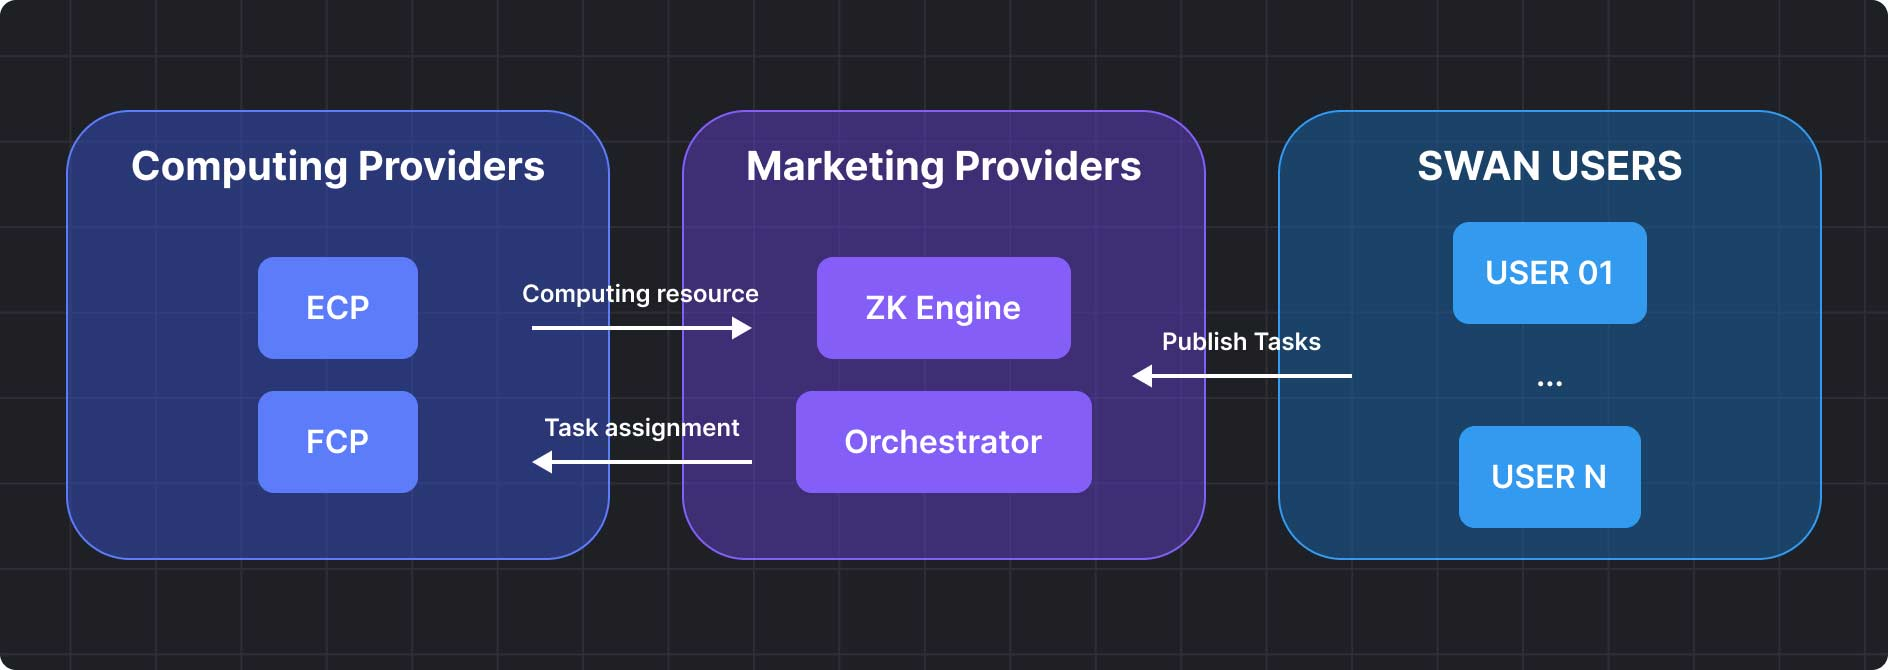
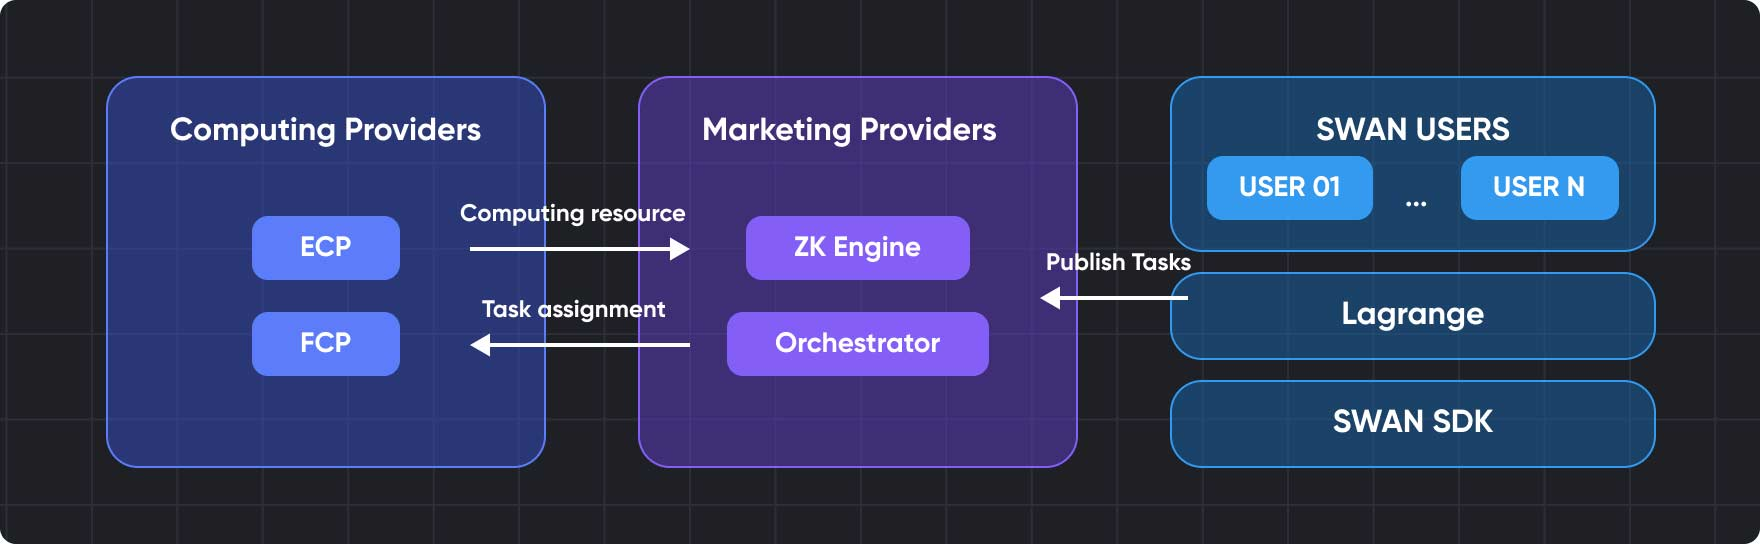
Modify page content

Changed region(s): [[0.0312, 0.125, 0.9688, 0.875]]

diff --git a/src/views/network/about/config.ts b/src/views/network/about/config.ts
@@ -11,7 +11,7 @@ export const anchor = ref([
     title: 'General Information',
     image: null,
     content: [
-      'Full set AI blockchain.'
+      'A Full Toolset AI Blockchain.'
     ]
   },
   {
@@ -35,7 +35,7 @@ export const anchor = ref([
     title: 'Architecture',
     image: image2,
     content: [
-      'SWAN Users can easily publish their tasks on SWAN website and the Marketing Providers will automatically assign the tasks to Computing providers.<br /><br />',
+      'Marketing Providers will automatically assign the tasks to Computing providers. Tasks usually come from Lagrange, Swan Chain users and Swan Chain SDK.<br /><br />',
       'ECP focuses on real-time computing requirements at the edge, and meets the urgent needs of the network for low-latency real-time processing by providing services such as zero-knowledge proof computing, image recognition, and content distribution.<br /><br />',
       'FCP gives full play to the advantages of cloud computing and provides support for AI model training and deployment by sinking computing power to the edge of the network. With infrastructure such as Kubernetes, FCP is able to efficiently handle scalable, massively distributed computing tasks.<br /><br />',
       'MP provides smart and automatic engines which would be able to allocate the tasks to the most appropriate Computing Providers.',
@@ -49,7 +49,7 @@ export const anchorProvider = ref([
     targetId: 'SWAN-Providers',
     actived: true,
     mainTitle: true,
-    mainTitleText: 'SWAN Providers',
+    mainTitleText: 'Swan Chain Providers',
     externalLink: {
       name: 'View Provider explorer',
       link: 'https://orchestrator.swanchain.io/provider-status'
@@ -58,7 +58,7 @@ export const anchorProvider = ref([
     image: null,
     content: [
       'A computing provider is an individual or organization that participates in the decentralized computing network by offering computational resources such as processing power (CPU and GPU), memory, storage, and bandwidth.<br /><br />',
-      'As a resource provider, you can run a ECP(Edge Computing Provider) and FCP(Fog Computing Provider) to contribute yourcomputing resource.'
+      'As a resource provider, you can run a ECP(Edge Computing Provider) and FCP(Fog Computing Provider) to contribute your computing resource.'
     ]
   },
   {

diff --git a/src/base-ui/xy-swiper-app.vue b/src/base-ui/xy-swiper-app.vue
@@ -3,7 +3,7 @@
   <swiper class="swiper-app" :modules="modules" :navigation="{
       nextEl: '.swiper-button-next',
       prevEl: '.swiper-button-prev'
-    }" slides-per-view="auto" :looped-slides="list.length + 2" :autoplay="autoplay" loop>
+    }" :pagination="{ clickable: true }" slides-per-view="auto" :autoplay="autoplay">
     <template v-for="(item, index) in list" :key="index">
       <swiper-slide class="swiper-slide pointer" :style="{ width: itemWidth }" @click="openPage(item.website)">
         <div class="swiper-slide-item back-linear text-center">
@@ -29,7 +29,7 @@
   </swiper>
 </template>
 <script setup lang="ts">
-import SwiperCore, { Autoplay, Navigation } from 'swiper'
+import SwiperCore, { Autoplay, Navigation, Pagination } from 'swiper'
 import { Swiper, SwiperSlide } from 'swiper/vue'
 import 'swiper/swiper-bundle.css'
 import type { IOption } from 'types/common'
@@ -47,9 +47,9 @@ defineProps<{
   itemLeft?: string
 }>()
 const emits = defineEmits(['click-item'])
-const modules = ref([Autoplay])
+const modules = ref([Autoplay, Pagination])
 const autoplay = reactive({
-  delay: 5500, 
+  delay: 2000, 
   stopOnLastSlide: false,
   disableOnInteraction: false,
   pauseOnMouseEnter: true,
@@ -59,11 +59,12 @@ const autoplay = reactive({
 function handleClickItem(item: IOption) {
   emits('click-item', item)
 }
-SwiperCore.use([Navigation]);
+SwiperCore.use([Navigation, Pagination]);
 </script>
 <style lang="scss">
 .swiper-app {
   width: 100%;
+  padding-bottom: calc(0.64rem + 8px);
   // margin-left: -1.565rem;
   .swiper-wrapper {
     display: flex;
@@ -134,6 +135,21 @@ SwiperCore.use([Navigation]);
     &.swiper-button-prev{
       left: 0;
       background: linear-gradient(-90deg, transparent, var(--color-dark));
+    }
+  }
+  .swiper-pagination{
+    display: flex;
+    justify-content: center;
+    bottom: 0.32rem;
+    .swiper-pagination-bullet{
+      width: 8px;
+      height: 8px;
+      margin: 0 0.08rem;
+      background-color: var(--color-light-opacity-25);
+      opacity: 1;
+      &.swiper-pagination-bullet-active {
+        background-color: var(--color-light);
+      }
     }
   }
 }

diff --git a/src/views/network/swanToken/config.ts b/src/views/network/swanToken/config.ts
@@ -22,8 +22,8 @@ export const anchor = ref([
     title: 'Introduction',
     image: image1,
     content: [
-      "SwanChain introduces a comprehensive tokenomics structure designed to support its ecosystem's growth, incentivize participation, and ensure operational sustainability.",
-      'SWAN token is the native encryption token of the Swan Chain ecosystem and plays a key role in this distributed computing network. Through innovative economic model design, SWAN empowers participants, stimulates network vitality, and ensures long-term sustainable development.',
+      "Swan Chain introduces a comprehensive tokenomics structure designed to support its ecosystem's growth, incentivize participation, and ensure operational sustainability.",
+      'SWAN token is the native encryption token of the Swan Chain ecosystem and plays a key role in this distributed computing network. Through innovative economic model design, Swan Chain empowers participants, stimulates network vitality, and ensures long-term sustainable development.',
       'The total supply of SWAN tokens is fixed at 1 billion tokens, ensuring scarcity and long-term protection against inflation. ',
       'The token economics is designed to support the growth and sustainability of the Swan Chain, and its distribution is as follows:'
     ]

diff --git a/src/views/ecosystem/Apps/apps-header.vue b/src/views/ecosystem/Apps/apps-header.vue
@@ -2,7 +2,7 @@
    <!-- page-body lax-landing -->
   <div class="home-header page-body lax-landing flex-column flex-ai-center">
     <div class="home-header-title font-46 font-bold plr-32">{{ title }}</div>
-    <div class="font-24">Discover and explore the applications built on SWAN Chain.</div>
+    <div class="font-24">Discover and explore the applications built on Swan Chain.</div>
     <div class="flex flex-ai-center mt-16">
       <div class="home-header-btn btn font-16 flex flex-ai-center" @click="formDialog=true">
         Add Your App
@@ -12,7 +12,7 @@
       </div>
     </div>
     <div class="home-header-list mt-80">
-      <xy-swiper-app :list="crmForm.data" :item-width="windowSize === EWindowSize.XS ? '70%' : '2.53rem'"></xy-swiper-app>
+      <xy-swiper-app :list="crmForm.data" :item-width="windowSize === EWindowSize.XS ? '50%' : '20%'"></xy-swiper-app>
     </div>
   </div>
 
@@ -26,7 +26,7 @@ import { windowSize } from '@/hooks/layout'
 import { EWindowSize } from '@/constant/common'
 import { getCRMFormList } from '@/api/apps';
 
-const title = ref('SWAN Chain Apps')
+const title = ref('Swan Chain Apps')
 const recommendList = ref([
   {
     title: 'Lagrange Dao',

diff --git a/src/views/aboutUs/pages/aboutUs-header.vue b/src/views/aboutUs/pages/aboutUs-header.vue
@@ -3,10 +3,10 @@
     <div class="content lang-max flex-row">
       <div class="text font-16">
         <div class="font-46 font-bold text-center flex flex-ai-center flex-jc-center mb-110 plr-32">
-          Build The Web3 Future with Swan
+          Build The Web3 Future with Swan Chain
         </div>
         <div class="flex flex-wrap flex-jc-center banner-text">
-          <div class="font-14 mb-16">Swan has a global team of dedicated, world-class talents who are committed to building the best Web3 infrastructure.</div>
+          <div class="font-14 mb-16">Swan Chain has a global team of dedicated, world-class talents who are committed to building the best Web3 infrastructure.</div>
           <div class="font-14 mb-10">We are constantly looking for talents to join us to make Web3 better. Check below for current openings</div>
           <div class="flex flex-ai-center flex-js-left">
             <div @click="openPage('https://www.linkedin.com/company/swancloud/jobs/')" class="banner-text-try font-14 font-bold2 flex flex-ai-center flex-js-center pointer">

diff --git a/src/base-ui/xy-swiper-showcase.vue b/src/base-ui/xy-swiper-showcase.vue
@@ -3,7 +3,7 @@
   <swiper class="swiper-showcase" :modules="modules" :navigation="{
       nextEl: '.swiper-button-next',
       prevEl: '.swiper-button-prev'
-    }" :pagination="{ clickable: true }" slides-per-view="auto">
+    }" :pagination="{ clickable: true }" slides-per-view="auto" :autoplay="autoplay">
     <template v-for="(item, index) in list" :key="index">
       <swiper-slide class="swiper-slide" :style="{ width: itemWidth, height: itemHeight }">
         <div class="card-item back-linear swiper-slide-item text-center">
@@ -65,7 +65,7 @@ defineProps<{
 const emits = defineEmits(['click-item'])
 const modules = ref([Autoplay, Navigation, Pagination])
 const autoplay = reactive({
-  delay: 5500, 
+  delay: 2000, 
   stopOnLastSlide: false,
   disableOnInteraction: false,
   pauseOnMouseEnter: true,
